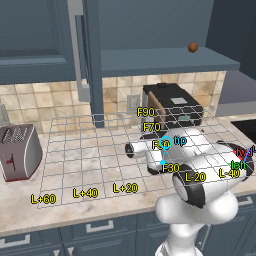
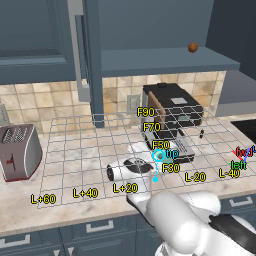
PrepareCoffee demo: lower in front of the machine, then slide in horizontally; coffee stream as button feedback

Changed region(s): [[0.4062, 0.5, 1.0, 1.0]]

diff --git a/context_test_docs/progress.md b/context_test_docs/progress.md
@@ -419,3 +419,11 @@
 - 주간 사용량 계기: 시작 46% → 끝 47%(공유 계정, 1% 단위). 10분 뒤 값은 `weekly_after_10min.json`
 - 재연결 경고는 0번, 실패한 호출도 0번이었습니다. 403은 서버 쪽에서 간헐적으로 생기는 것으로 보입니다.
 - 영상: `runs/robodawn/P11-PrepareCoffee-scene1-budget2400-1shot/debug_sim.mp4` (패널에 주간 사용량 % 표시)
+
+## PrepareCoffee 시연 수정 (2026-10-07, 모델 호출 없음)
+
+- 문제: 전문가 녹화는 "머신 앞 약 12 cm에서 받침대 높이(108 cm)까지 먼저 내리고, 그 높이로 수평으로 밀어 넣기"였습니다. 그런데 시연 글은 이를 한 턴으로 합쳤고, 자동 변환 규칙("내리기는 마지막") 때문에 명령이 "forward 20, forward 3, right 12, down 15"가 되어 반대 순서를 가르쳤습니다.
+- 수정(`demo_plans/PrepareCoffee.json`):
+  - 해당 턴을 두 턴으로 나눴습니다: ① 머신 앞에서 내리기 `move down 13, move forward 11, move right 3`, ② 같은 높이로 밀어 넣기 `move forward 12, move right 9`. 두 턴 모두 이미지를 넣었습니다.
+  - 버튼 턴과 그 뒤 턴에 "갈색 커피 줄기가 나오면 눌린 것"을 넣었고, note에 순서를 명시했습니다.
+- 한계: 녹화 영상(256px)에서는 커피 줄기가 거의 보이지 않습니다. 시연에서는 글로만 전달됩니다.
